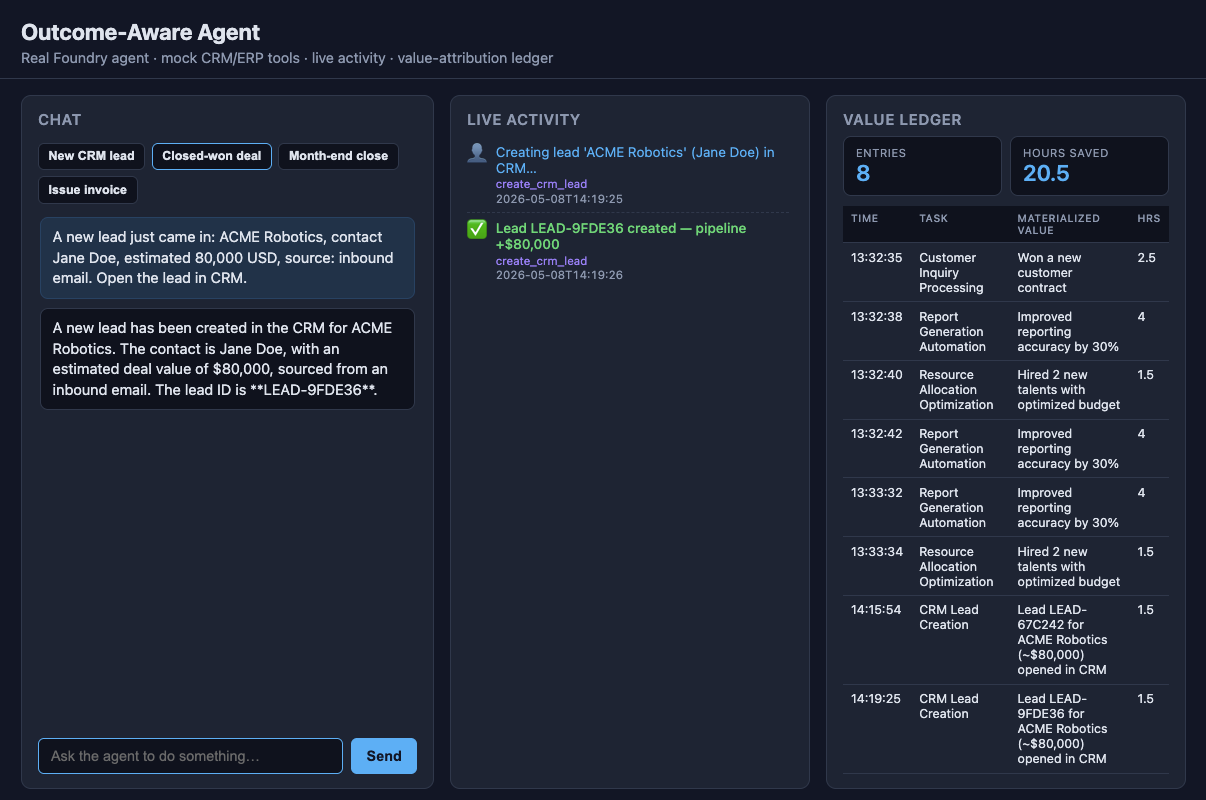
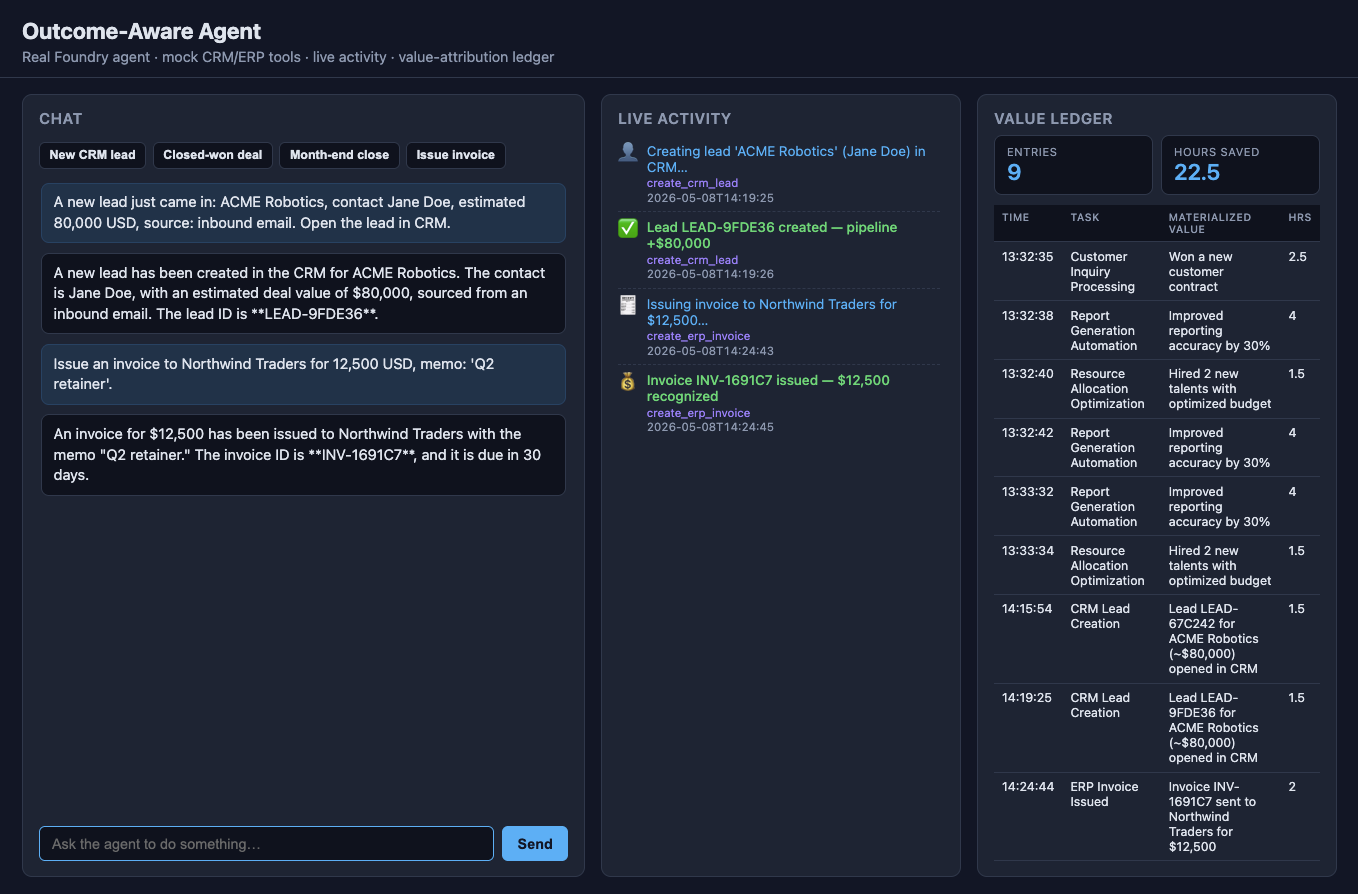
Voeg afbeelding toe aan de README en update de waarde-ledger UI afbeelding

diff --git a/src/samples/create-outcome-aware-agents/README.md b/src/samples/create-outcome-aware-agents/README.md
@@ -108,6 +108,8 @@ Open <http://127.0.0.1:8000>. The page has three panels:
 
 ![Outcome-Aware Agent value ledger UI](media/ui-value-ledger.png)
 
+![alt text](image.png)
+
 ---
 
 ## 2. Deploy Azure Confidential Ledger (optional, recommended)
